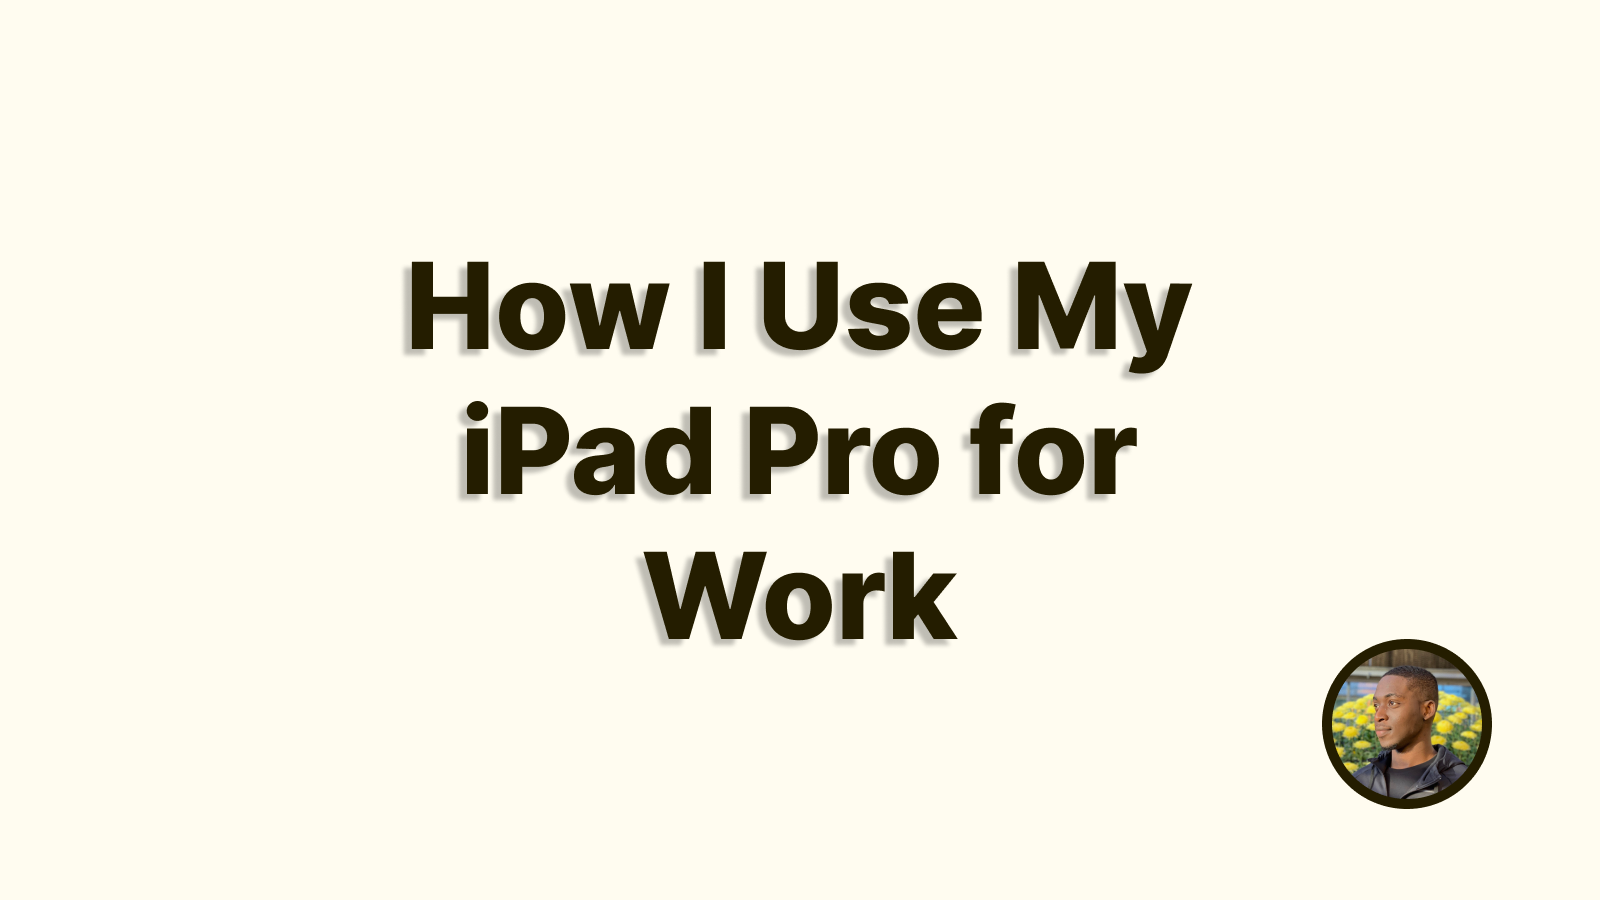
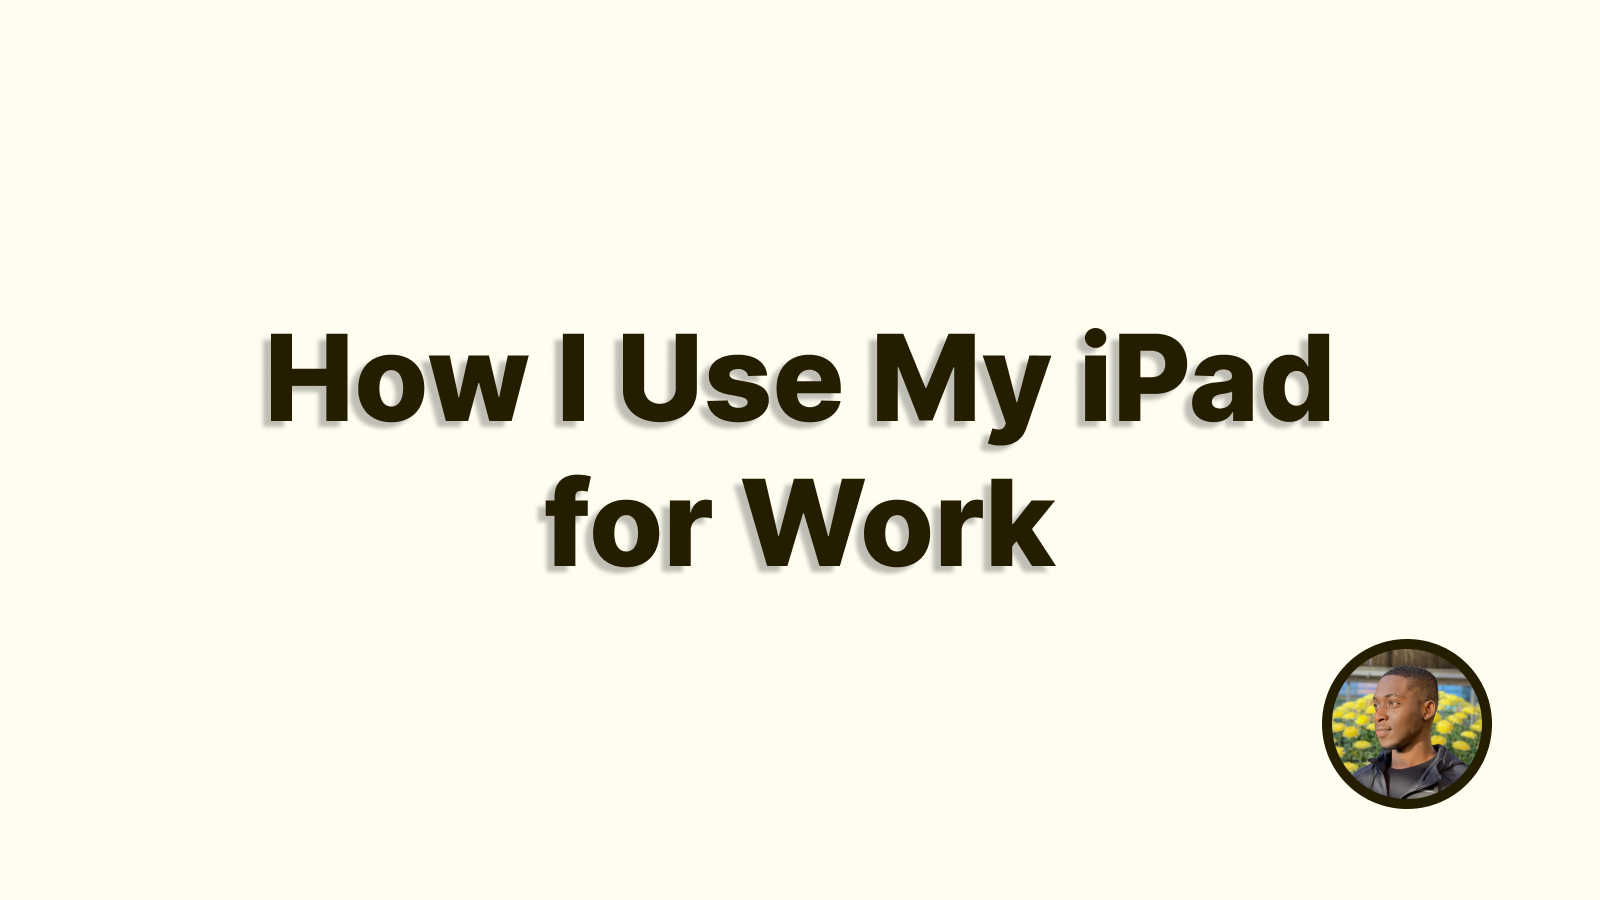
edit

Changed region(s): [[0.1562, 0.28, 0.8438, 0.7156]]

diff --git a/content/posts/2021-01-03-How-I-Use-My-iPad-Pro-For-Work.md b/content/posts/2021-01-03-How-I-Use-My-iPad-Pro-For-Work.md
@@ -1,6 +1,6 @@
 ---
-title: 'How I Use My iPad Pro For Work'
-slug: 'ipad-pro-for-work'
+title: 'How I Use My iPad For Work'
+slug: 'ipad-for-work'
 draft: false
 template: 'post'
 category: 'Pro Tips'
